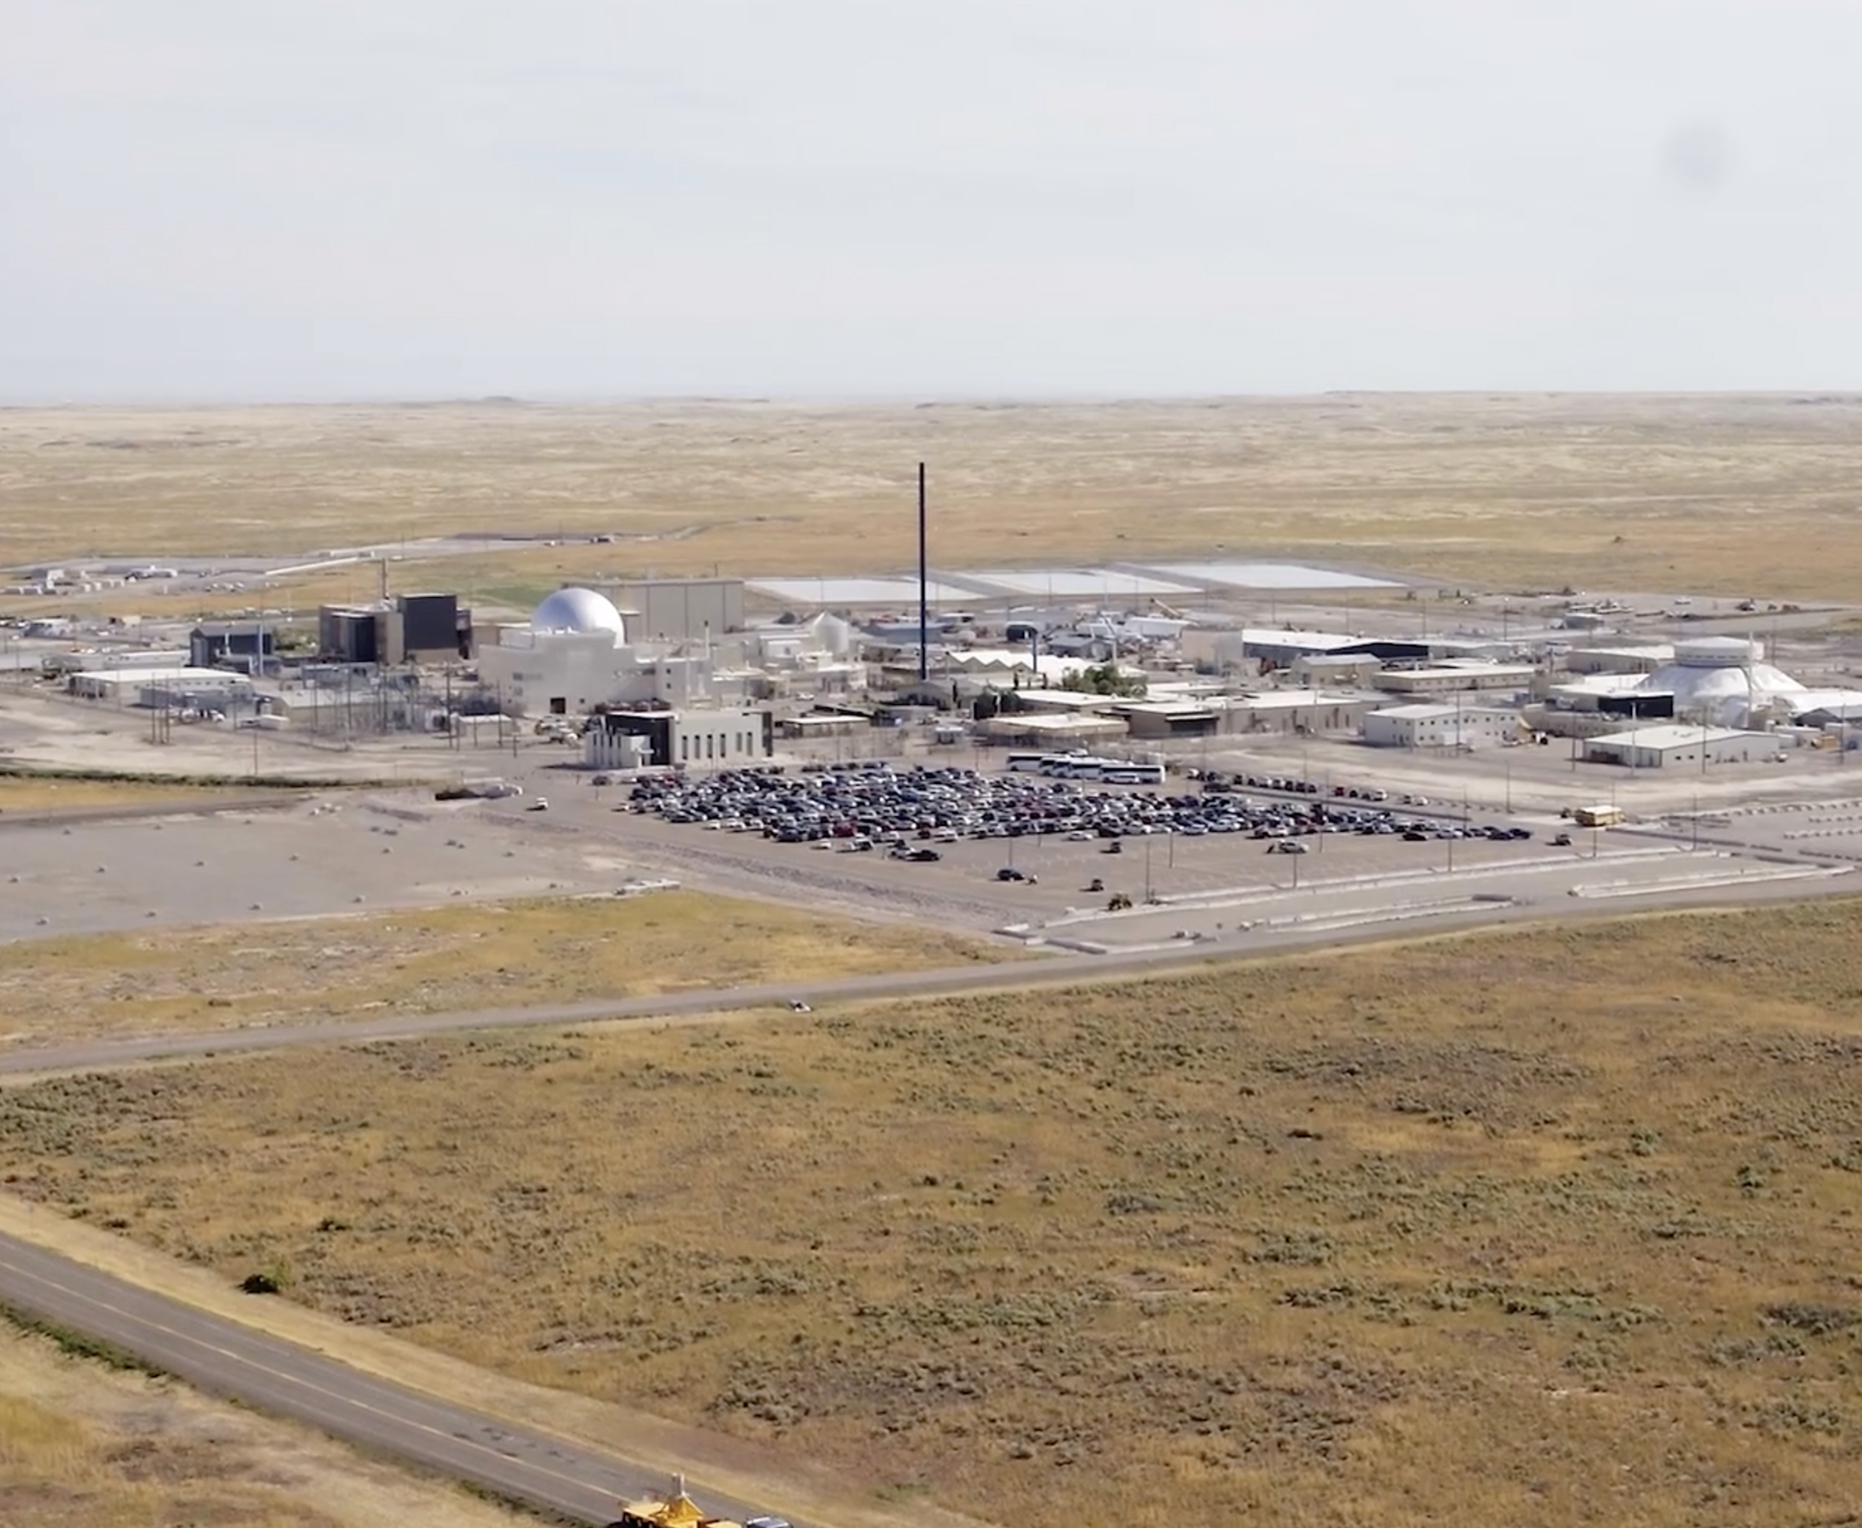
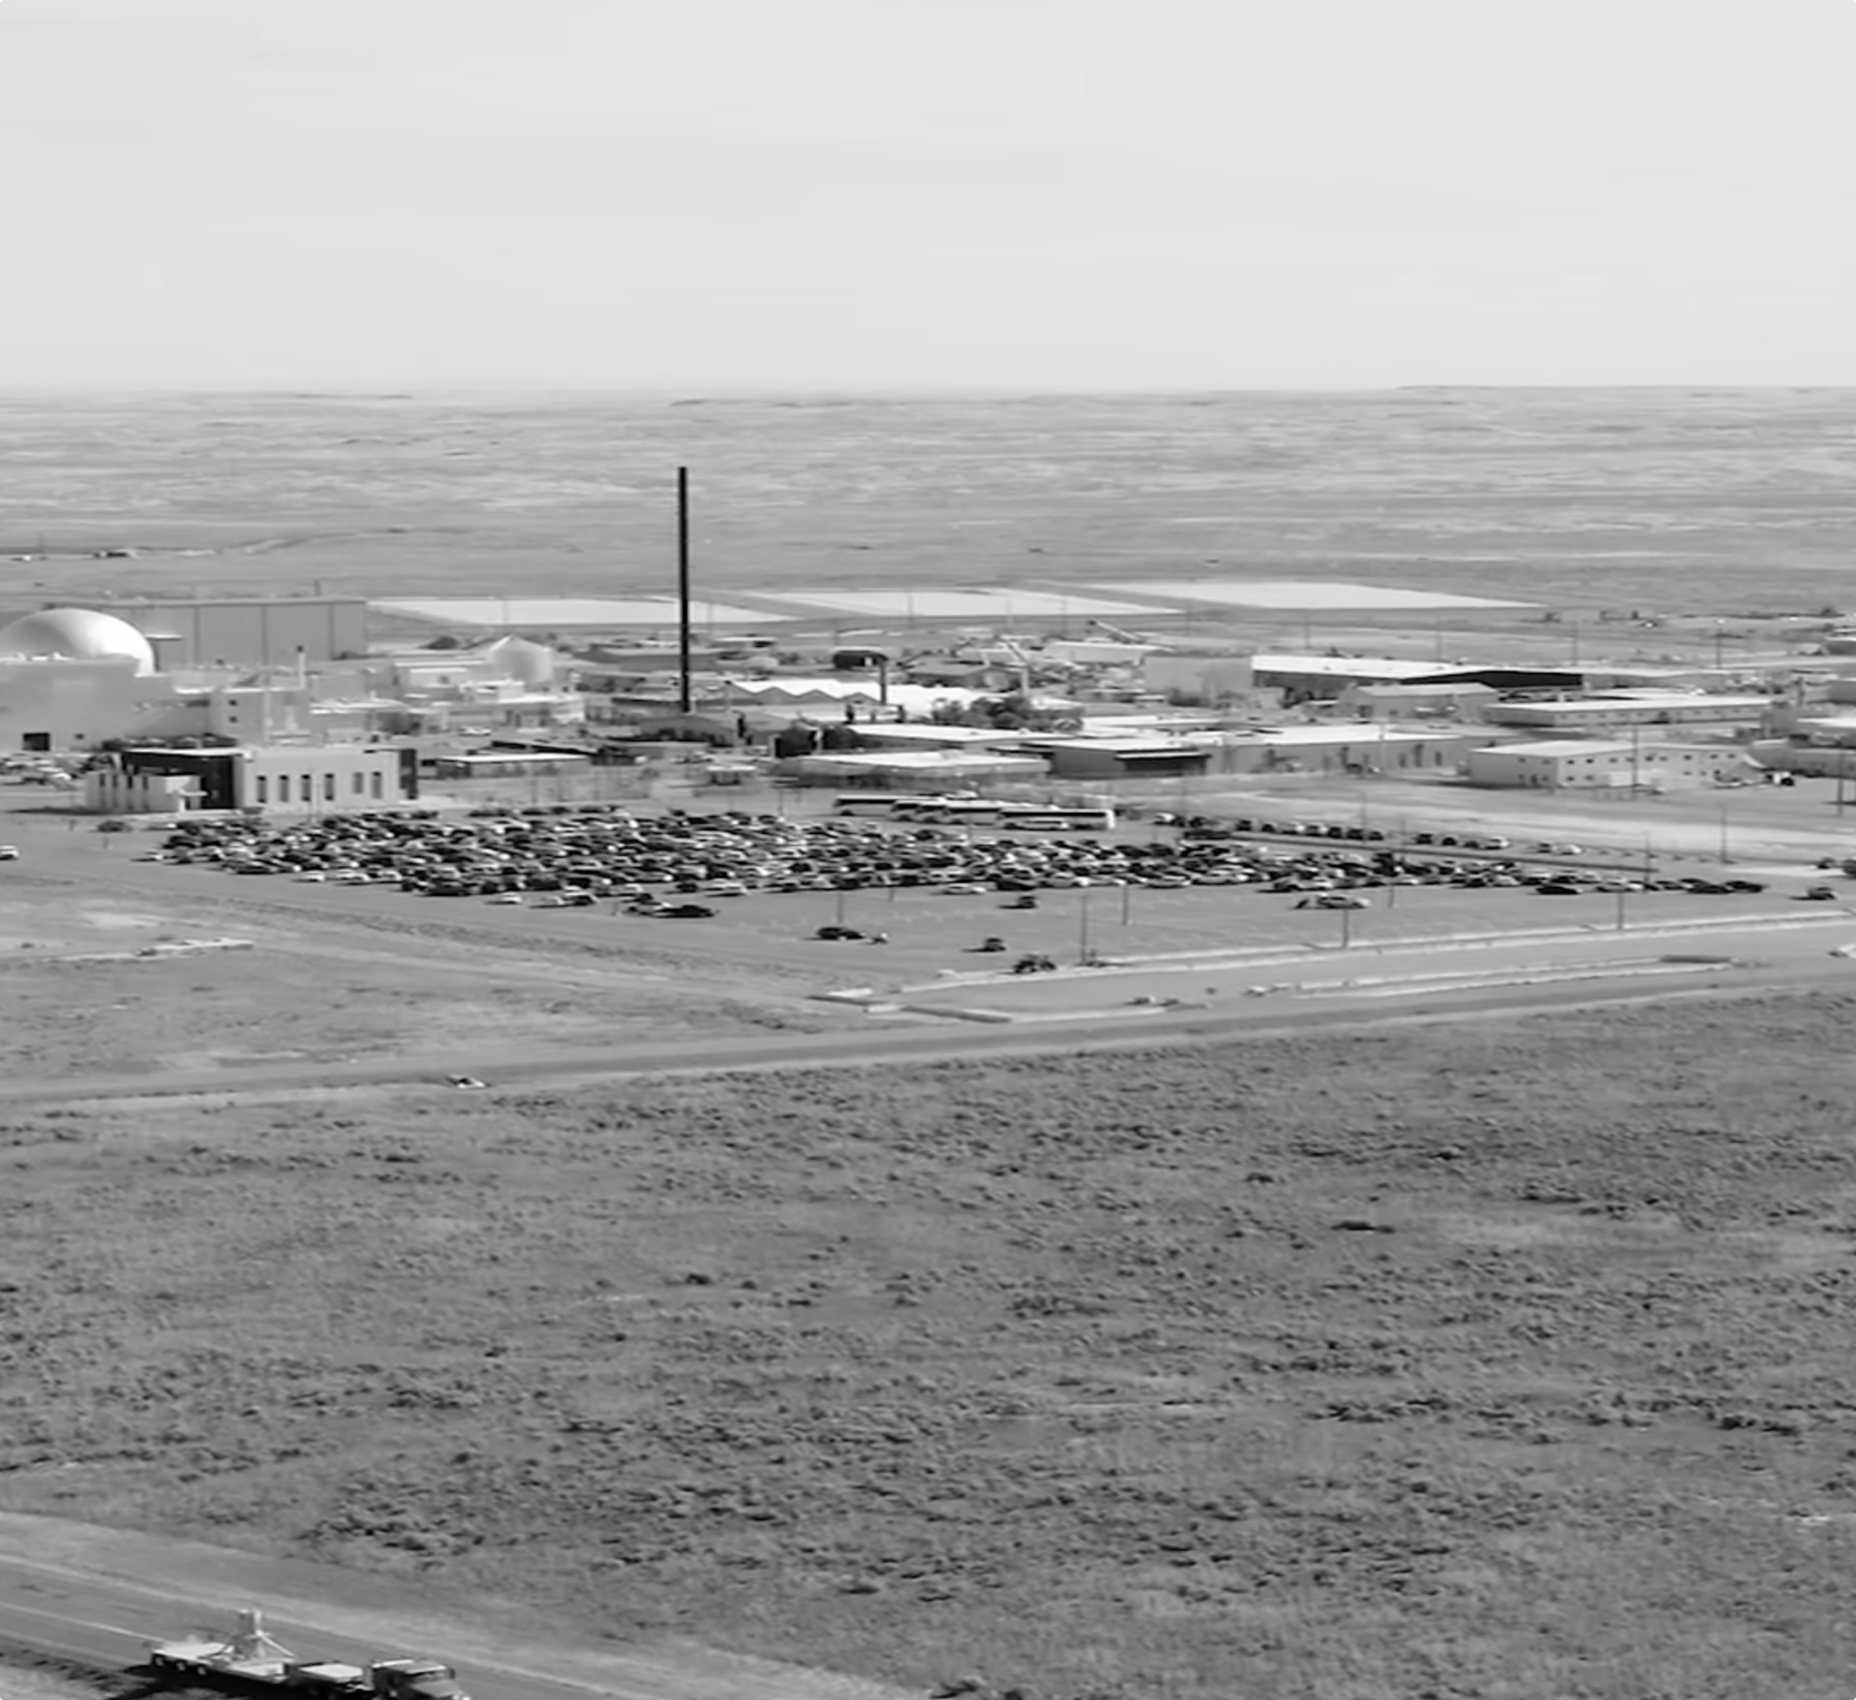
Replace the landing's graphite machining image

diff --git a/src/lib/content/home.ts b/src/lib/content/home.ts
@@ -11,7 +11,7 @@ import type { FeatureCardsContent } from './company';
 import specialPurposeReactors from '$lib/assets/images/landing/special-purpose-reactors.jpg?w=2028;1014;676;338&enhanced';
 import heatPipes from '$lib/assets/images/landing/heat-pipes.jpg?w=2028;1014;676;338&enhanced';
 import controlSystems from '$lib/assets/images/landing/control-systems.jpg?w=2028;1014;676;338&enhanced';
-import graphiteMachining from '$lib/assets/images/landing/graphite-machining.jpg?w=1862;928;464&enhanced';
+import graphiteMachining from '$lib/assets/images/landing/graphite-machining.jpg?w=1856;928;464&enhanced';
 import heroImage from '$lib/assets/images/company/hero-image.jpg?w=3000;2400;1800;1200;800&enhanced';
 // TODO(launch): replace the stand-in hero film with the final cut.
 import heroVideo from '$lib/assets/images/landing/hero-placeholder.mp4';
